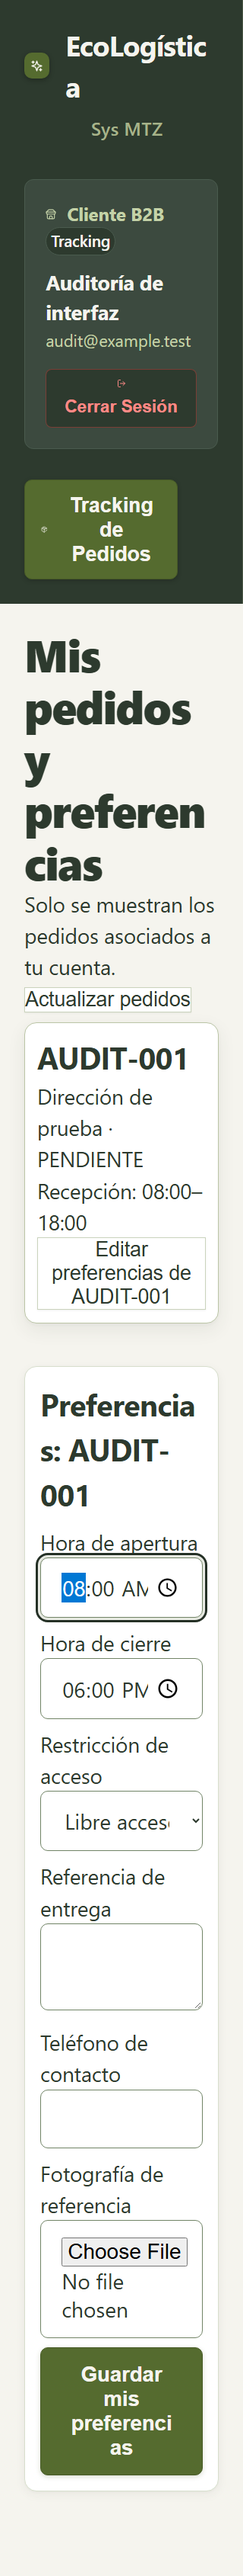
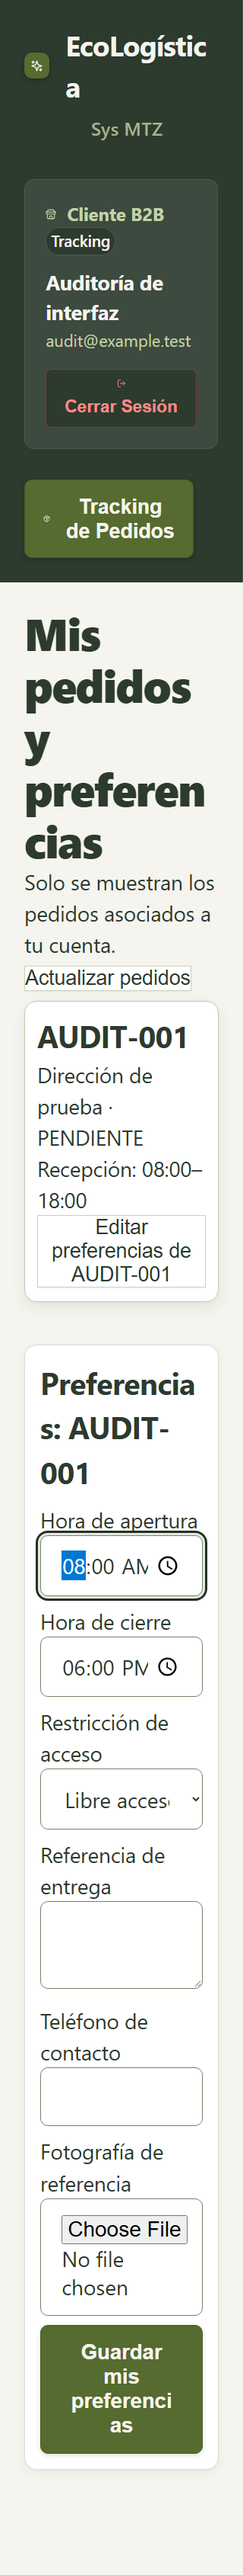
Registra despliegue final aprobado y consolida auditoría ampliada y evidencia pública

diff --git a/scripts/finalize_quality_documents.py b/scripts/finalize_quality_documents.py
@@ -80,3 +80,25 @@ Sprints **1–4 cerrados**: diez historias (**67 SP**), **99/99 subtareas** y si
 '''
 write(p,t)
 print('Corte de calidad aplicado: 122 Listo; ANA-26 En curso; SLA mensual no acreditado.')
+
+# Keep the earlier technical cut as history; use the newer verified release in summaries.
+latest=EV/'validacion-accesibilidad-ampliada-27nov.json'
+if latest.exists():
+    verified=json.loads(latest.read_text(encoding='utf-8'))
+    assert verified['required_successful']
+    sha=verified['main'][:7]
+    for p in CLOSE.glob('0*.md'):
+        t=p.read_text(encoding='utf-8')
+        t=t.replace('229 pruebas web','231 pruebas web').replace('229 web,','231 web,')
+        t=t.replace('229 aprobadas; construcción y precompresión correctas. Treinta auditorías automáticas adicionales de accesibilidad aprobadas en tres navegadores.',
+            '231 aprobadas; construcción y precompresión correctas. 45 auditorías de accesibilidad en tres navegadores y 12 comprobaciones adicionales de texto en Chromium aprobadas.')
+        t=t.replace('evidencias/validacion-tecnica-calidad-27nov.json','evidencias/validacion-accesibilidad-ampliada-27nov.json')
+        t=t.replace('Última versión funcional verificada: `924168b8d630a44eb17d890e4b3f6b7eb1f05ac6`,',f"Última versión funcional verificada: `{verified['main']}`,")
+        write(p,t)
+    p=CLOSE/'anexos/Registro de entrega y transicion.md';t=p.read_text(encoding='utf-8')
+    t=t.replace('CI del commit funcional 924168b aprobado',f'CI del commit funcional {sha} aprobado')
+    write(p,t)
+    p=ROOT/'README.md';t=p.read_text(encoding='utf-8')
+    t=t.replace('Pasaron 30 auditorías automáticas de accesibilidad',
+        'Pasaron 45 auditorías de accesibilidad en tres navegadores y 12 comprobaciones adicionales de texto en Chromium')
+    write(p,t)

diff --git a/scripts/verify_closure.py b/scripts/verify_closure.py
@@ -120,6 +120,12 @@ if (CLOSE/'evidencias/jira-calidad-final-27nov.json').exists():
     check(all(r['violations']==0 for r in audit['results']),'Violaciones de accesibilidad pendientes en el alcance automático')
     recovery=json.loads((CLOSE/'evidencias/recuperacion-postgis-local-27nov.json').read_text(encoding='utf-8'))
     check(recovery['result']=='PASS' and recovery['worker_resumed_and_pdf_valid'],'Falta recuperación local medida')
+if (CLOSE/'evidencias/validacion-accesibilidad-ampliada-27nov.json').exists():
+    release=json.loads((CLOSE/'evidencias/validacion-accesibilidad-ampliada-27nov.json').read_text(encoding='utf-8'))
+    for name in release['required_workflow_names']:
+        check(any(r['name']==name and r['status']=='completed' and r['conclusion']=='success' for r in release['runs']),f'Falta aprobación de la versión ampliada: {name}')
+    public=json.loads((CLOSE/'evidencias/verificacion-publica-accesibilidad-27nov.json').read_text(encoding='utf-8'))
+    check(public['result']=='PASS' and all(public['checks'].values()),'Cambios no verificados en la URL pública')
 tracked=subprocess.check_output(['git','ls-files'],cwd=ROOT,text=True).splitlines()
 for file in tracked:
     check(not re.search(r'(^|/)(node_modules|\.venv|venv|__pycache__|\.dart_tool)/|\.pyc$',file),f'Residuo rastreado: {file}')

diff --git a/docs/04 Cierre/06 Reporte Final del Proyecto V_1_0_0.md b/docs/04 Cierre/06 Reporte Final del Proyecto V_1_0_0.md
@@ -16,7 +16,7 @@
 
 EcoLogística Lima aborda planificación de última milla y trazabilidad de impacto ambiental estimado para operadores y comercios. Integra web React/TypeScript, app Flutter, API FastAPI, PostgreSQL 16/PostGIS, rutas viales OSRM, estados de entrega y reportes PDF. Roles: administrador, oficina, repartidor y cliente. El alcance se alinea al [acta consolidada V_1_1_0](../01%20Inicio/02.%20Acta%20de%20constituci%C3%B3n%20V_1_1_0.md), conservando el acta original como referencia de metas.
 
-Producto publicado: [web](https://ecologistica-web.onrender.com) y [API/OpenAPI](https://ecologistica-api.onrender.com/docs). Última versión funcional verificada: `924168b8d630a44eb17d890e4b3f6b7eb1f05ac6`, 27/11/2026, con correcciones de paginación, rendimiento, accesibilidad y salud de la base. [CI y despliegue](evidencias/validacion-tecnica-calidad-27nov.json). El registro `be3e3ac` se conserva como corte técnico anterior.
+Producto publicado: [web](https://ecologistica-web.onrender.com) y [API/OpenAPI](https://ecologistica-api.onrender.com/docs). Última versión funcional verificada: `d2e16832b89745945392380dec61729f5064f6a4`, 27/11/2026, con correcciones de paginación, rendimiento, accesibilidad y salud de la base. [CI y despliegue](evidencias/validacion-accesibilidad-ampliada-27nov.json). El registro `be3e3ac` se conserva como corte técnico anterior.
 
 ## 2. Resumen de Desempeño
 
@@ -32,7 +32,7 @@ Objetivo: módulos core operativos. Evidencia: pruebas por roles y recorrido cli
 
 | Criterio / evidencia | Resultado al corte | Conclusión |
 |---|---|---|
-| Pruebas web | 229 aprobadas; construcción y precompresión correctas. Treinta auditorías automáticas adicionales de accesibilidad aprobadas en tres navegadores. | Verificación técnica aprobada. |
+| Pruebas web | 231 aprobadas; construcción y precompresión correctas. 45 auditorías de accesibilidad en tres navegadores y 12 comprobaciones adicionales de texto en Chromium aprobadas. | Verificación técnica aprobada. |
 | Backend y base geoespacial | 105 pruebas locales aprobadas; cuatro integraciones omitidas bajo SQLite. Las tres nuevas pruebas de capacidad se ejecutaron aparte sobre PostGIS real y la validación funcional de CI aprobó. | La prueba PostgreSQL ejecuta planificación y replanificación sobre base real desechable. |
 | Aceptación automatizada | Cuatro roles × tres navegadores; pruebas completas y workflows aprobados. | No representa una encuesta ni aprobación humana. |
 | Android | Análisis, pruebas y compilación APK del workflow aprobados. | No acredita un piloto de campo en dispositivos de repartidores reales. |
@@ -44,7 +44,7 @@ Objetivo: módulos core operativos. Evidencia: pruebas por roles y recorrido cli
 
 **Exenciones:** no consta aprobación formal de waivers. Se identifican brechas sin eliminarlas de la línea base. El video se excluye por instrucción del usuario en este encargo y permanece como requisito de evaluación externo.
 
-Fuentes de las métricas actuales: [CI y despliegue de calidad](evidencias/validacion-tecnica-calidad-27nov.json) y [mediciones de calidad y continuidad](anexos/Validaciones%20de%20calidad%20y%20continuidad%2027nov.md). Fuentes del corte previo: [registro de validación técnica](evidencias/validacion-tecnica.json), [análisis Playwright y latencia](../03%20Implementaci%C3%B3n/Sprint%204/03%20Analisis%20PlayWrigth%20V_1_0_0.md), [monitoreo real original](../03%20Implementaci%C3%B3n/Sprint%204/evidencias/monitoreo-real-2h.json) y [anexo SUS simulado](../03%20Implementaci%C3%B3n/Sprint%204/08%20Anexo%20SUS%20simulado%20V_1_0_0.md).
+Fuentes de las métricas actuales: [CI y despliegue de calidad](evidencias/validacion-accesibilidad-ampliada-27nov.json) y [mediciones de calidad y continuidad](anexos/Validaciones%20de%20calidad%20y%20continuidad%2027nov.md). Fuentes del corte previo: [registro de validación técnica](evidencias/validacion-tecnica.json), [análisis Playwright y latencia](../03%20Implementaci%C3%B3n/Sprint%204/03%20Analisis%20PlayWrigth%20V_1_0_0.md), [monitoreo real original](../03%20Implementaci%C3%B3n/Sprint%204/evidencias/monitoreo-real-2h.json) y [anexo SUS simulado](../03%20Implementaci%C3%B3n/Sprint%204/08%20Anexo%20SUS%20simulado%20V_1_0_0.md).
 
 ### 2.3 Cronograma
 

diff --git a/docs/04 Cierre/anexos/Revision de accesibilidad y monitoreo 27nov.md b/docs/04 Cierre/anexos/Revision de accesibilidad y monitoreo 27nov.md
@@ -65,4 +65,10 @@ Entre **19:29 y 19:31 de Lima**, se observaron seis muestras HTTP (tres web y tr
 
 El workflow `Operational availability samples` fue consultado y figura **activo**. Al revisar sus artefactos solo constaba la primera ejecución manual; todavía no se había observado una ejecución disparada por el cron. [Corte observado del seguimiento](../evidencias/seguimiento-monitoreo-real-27nov.json) · [workflow operativo](../../../.github/workflows/availability.yml). El horario está configurado, pero no se afirma una continuidad programada o mensual aún no observada.
 
+## Comprobación pública de las correcciones
+
+La web publicada y la API respondieron HTTP 200. Se descargaron sus recursos públicos y se verificó que incluyeran títulos por página, foco de campos nativos, reglas de columnas verticales y alternativa por coordenadas. No se crearon ni modificaron registros en producción. [Resultado con fecha y nombres de recursos servidos](../evidencias/verificacion-publica-accesibilidad-27nov.json).
+
+**Publicación final verificada:** commit `d2e16832b89745945392380dec61729f5064f6a4`. CI, pruebas Sprint 4, Green IT, validación funcional hasta Sprint 3 (web, backend/PostGIS, Android y entorno desechable) y despliegue de producción terminaron correctamente. Las pruebas de navegador aprobaron **57/57 casos**: 45 de accesibilidad y doce de autenticación/permisos. Se conservaron los fallos anteriores y las publicaciones redundantes canceladas en el registro. [Resultados y enlaces de las ejecuciones](../evidencias/validacion-accesibilidad-ampliada-27nov.json) · [Despliegue aprobado](https://github.com/MartinezJhef/EcoLogistica-Lima/actions/runs/46107300583).
+
 [← Volver al README principal](../../../README.md)

diff --git a/README.md b/README.md
@@ -477,4 +477,4 @@ Universidad Continental · 2026
 
 [Revisión adicional de accesibilidad: 231 pruebas web y 45 auditorías; continuación del monitoreo real](docs/04%20Cierre/anexos/Revision%20de%20accesibilidad%20y%20monitoreo%2027nov.md).
 
-Sprints **1–4 cerrados**: diez historias (**67 SP**), **99/99 subtareas** y siete épicas en Listo. Corte posterior de calidad: **122/123 actividades Listo**; ANA-26 En curso para acreditar la revisión manual integral WCAG. Pasaron 30 auditorías automáticas de accesibilidad y las pruebas controladas de 150 pedidos/15 vehículos y 1.000 pedidos/50 vehículos sobre PostGIS. Monitoreo horario y recuperación están implementados; el SLA mensual no está acreditado. Gestión y SUS simulados mantienen esa identificación. No se declara aceptación humana ni cumplimiento global del 100%.
+Sprints **1–4 cerrados**: diez historias (**67 SP**), **99/99 subtareas** y siete épicas en Listo. Corte posterior de calidad: **122/123 actividades Listo**; ANA-26 En curso para acreditar la revisión manual integral WCAG. Pasaron 45 auditorías de accesibilidad en tres navegadores y 12 comprobaciones adicionales de texto en Chromium y las pruebas controladas de 150 pedidos/15 vehículos y 1.000 pedidos/50 vehículos sobre PostGIS. Monitoreo horario y recuperación están implementados; el SLA mensual no está acreditado. Gestión y SUS simulados mantienen esa identificación. No se declara aceptación humana ni cumplimiento global del 100%.

diff --git a/docs/04 Cierre/01 Reporte de Estado V_1_0_0.md b/docs/04 Cierre/01 Reporte de Estado V_1_0_0.md
@@ -12,7 +12,7 @@
 
 ## 1. Información de Alcance
 
-**Logros:** diez historias funcionales implementadas, integración web/API/móvil, rutas y entrega, analítica, PDF persistente y propuesta ambiental. Validación final: 229 pruebas web; 105 pruebas backend locales y tres pruebas adicionales de capacidad sobre PostGIS, además de la integración validada en CI; aceptación de cuatro roles en tres navegadores; Android compilado y despliegue aprobado. [CI y despliegue del último cambio funcional](evidencias/validacion-tecnica-calidad-27nov.json).
+**Logros:** diez historias funcionales implementadas, integración web/API/móvil, rutas y entrega, analítica, PDF persistente y propuesta ambiental. Validación final: 231 pruebas web; 105 pruebas backend locales y tres pruebas adicionales de capacidad sobre PostGIS, además de la integración validada en CI; aceptación de cuatro roles en tres navegadores; Android compilado y despliegue aprobado. [CI y despliegue del último cambio funcional](evidencias/validacion-accesibilidad-ampliada-27nov.json).
 
 **Cambios:** cuatro incrementos documentados frente a ocho sprints iniciales; Flutter sustituye la propuesta React Native. US-004 pasa de 3 a 5 SP por conciliación entre backlog e informe del Sprint 2: 58 → 60 SP, sin nueva funcionalidad. **Calidad:** se corrigieron truncamiento a 12 registros, bloqueo del último administrador, edición de pedidos cerrados y fecha UTC/Lima en aceptación.
 

diff --git a/docs/04 Cierre/04 Tableros de Control - Híbridos V_1_0_0.md b/docs/04 Cierre/04 Tableros de Control - Híbridos V_1_0_0.md
@@ -24,7 +24,7 @@ Colores con redundancia textual: VERDE = evidencia técnica aprobada; ÁMBAR = c
 |---|---|---|---|
 | Requisitos, arquitectura y presupuesto | Predictivo | ÁMBAR | Versiones conciliadas; horas y ejecución financiera simuladas. |
 | US-001–US-010 e integración | Adaptativo | VERDE técnico | Historias con implementación y recorridos automatizados; no equivale a aceptación de stakeholders. |
-| Web, API, móvil y despliegue | Adaptativo | VERDE | 229 web, 105 backend locales y capacidad/PostGIS en CI, E2E multirrol y Android; workflows aprobados al 27/11. |
+| Web, API, móvil y despliegue | Adaptativo | VERDE | 231 web, 105 backend locales y capacidad/PostGIS en CI, E2E multirrol y Android; workflows aprobados al 27/11. |
 | Cronograma macro | Predictivo | ROJO | 21 días hasta estabilización técnica; 22 hasta corte documental frente al 05/11. |
 | Costo / EVM | Predictivo | ÁMBAR | CPI 1.4270 del escenario; registro económico real no disponible. |
 | SUS y aceptación humana | Híbrido | ROJO | n real = 0; cinco casos simulados, SUS 77.5. |

diff --git a/docs/04 Cierre/anexos/Registro de entrega y transicion.md b/docs/04 Cierre/anexos/Registro de entrega y transicion.md
@@ -9,7 +9,7 @@
 | Elemento | Resultado verificable |
 |---|---|
 | Documentos | Siete informes Markdown con nombres requeridos, gráficos, datos y enlaces de retorno. |
-| Estado técnico | Web/API y móvil verificados; CI del commit funcional 924168b aprobado y despliegue exitoso; mediciones y límites en el anexo de calidad. |
+| Estado técnico | Web/API y móvil verificados; CI del commit funcional d2e1683 aprobado y despliegue exitoso; mediciones y límites en el anexo de calidad. |
 | Radiadores | Capturas reales del 27/11 de backlog, Kanban, burnup, burndown y flujo acumulado. |
 | Datos de gestión | Horas, AC, EVM y mood simulados, identificados y reproducibles. |
 | Código y arquitectura | Frontend/backend/móvil separados; stack conciliado con el código. |
